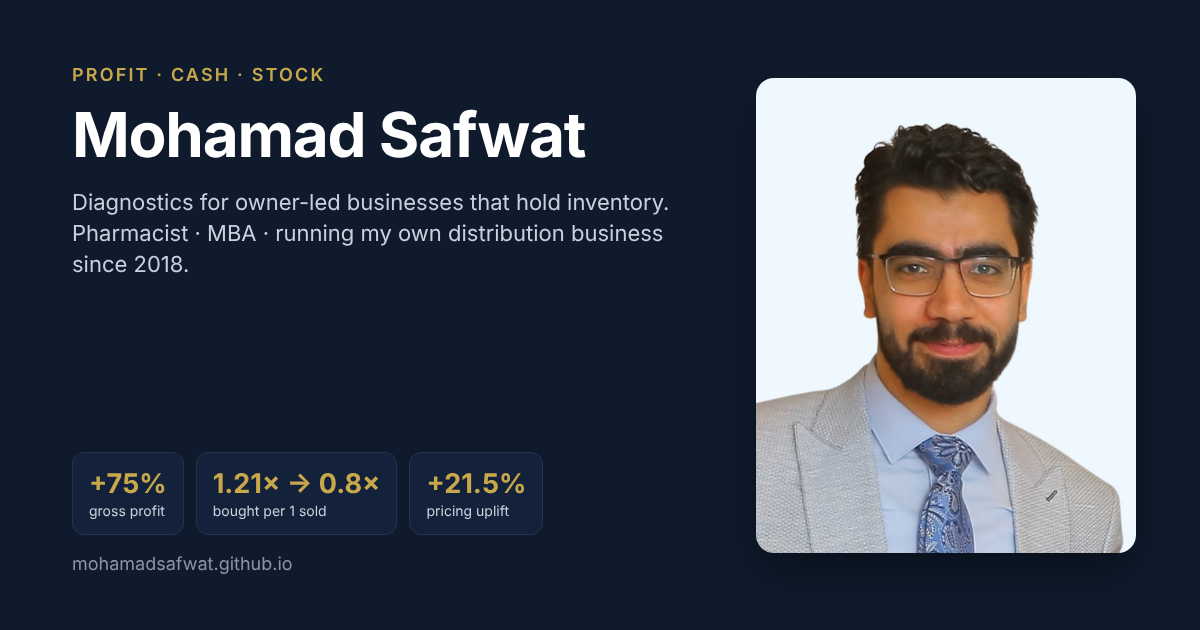
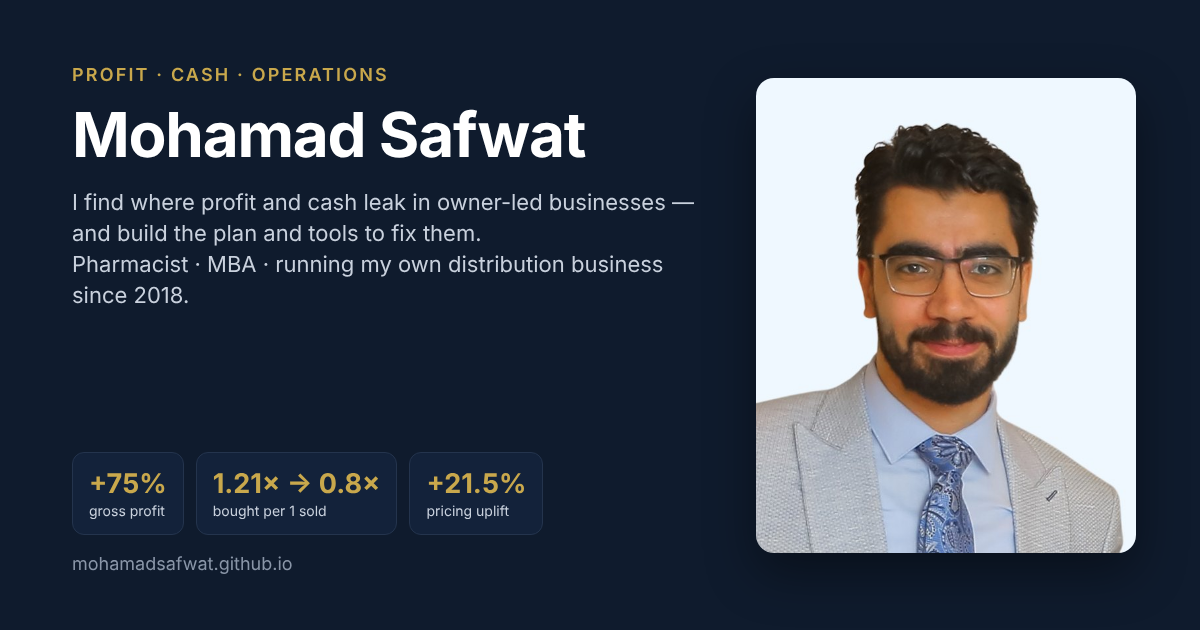
Broaden positioning beyond inventory businesses
Claude-Session: https://claude.ai/code/session_01QorqSg51Xh9JK2B4pxk6eo

Changed region(s): [[0.0617, 0.3016, 0.555, 0.4825], [0.2158, 0.0905, 0.3392, 0.1508]]

diff --git a/index.html b/index.html
@@ -3,11 +3,11 @@
 <head>
 <meta charset="utf-8">
 <meta name="viewport" content="width=device-width, initial-scale=1">
-<title>Mohamad Safwat — Profit, cash & stock diagnostics</title>
-<meta name="description" content="Profit, cash and stock diagnostics for owner-led businesses that hold inventory. Pharmacist, MBA, running my own distribution business since 2018.">
+<title>Mohamad Safwat — Profit & cash diagnostics</title>
+<meta name="description" content="I find where profit and cash leak in owner-led businesses — and build the plan and tools to fix them. Pharmacist, MBA, running my own distribution business since 2018.">
 <meta property="og:type" content="website">
-<meta property="og:title" content="Mohamad Safwat — Profit, cash & stock diagnostics">
-<meta property="og:description" content="Profit, cash and stock diagnostics for owner-led businesses that hold inventory. Pharmacist, MBA, running my own distribution business since 2018.">
+<meta property="og:title" content="Mohamad Safwat — Profit & cash diagnostics">
+<meta property="og:description" content="I find where profit and cash leak in owner-led businesses — and build the plan and tools to fix them. Pharmacist, MBA, running my own distribution business since 2018.">
 <meta property="og:url" content="https://mohamadsafwat.github.io/">
 <meta property="og:image" content="https://mohamadsafwat.github.io/og-card.png">
 <meta property="og:image:width" content="1200">
@@ -60,7 +60,7 @@ a{color:#0F1B2D}a:hover{color:#8A6417}
   <section id="top" style="background: #0F1B2D; color: #FFFFFF; overflow: hidden">
     <div style="max-width: 1200px; margin: 0 auto; padding: 104px 32px 88px; display: flex; flex-wrap: wrap; gap: 64px; align-items: flex-end">
       <div style="flex: 999 1 600px; min-width: 0; display: flex; flex-direction: column; gap: 26px">
-        <p class="rise d1" style="margin: 0; font-size: 14px; font-weight: 600; letter-spacing: 0.12em; text-transform: uppercase; color: #C9A84C">Profit · Cash · Stock — for owner-led businesses</p>
+        <p class="rise d1" style="margin: 0; font-size: 14px; font-weight: 600; letter-spacing: 0.12em; text-transform: uppercase; color: #C9A84C">Profit · Cash · Operations — for owner-led businesses</p>
         <h1 class="rise d2" style="margin: 0; font-family: 'Inter Tight', sans-serif; font-weight: 700; font-size: clamp(38px, 9vw, 66px); line-height: 1.03; letter-spacing: -0.028em">Most businesses don't lose money on one big mistake.</h1>
         <p class="rise d3" style="margin: 0; font-size: 20px; line-height: 1.55; color: #C9D1DD; max-width: 660px">They lose it in a hundred small gaps — the same item bought at three prices, stock bought ahead of sales, costs growing faster than revenue. I find them in the data you already have, and build the plan and the tools to close them.</p>
         <div class="rise d4" style="display: flex; flex-wrap: wrap; align-items: center; gap: 12px; font-size: 15px; color: #FFFFFF">
@@ -162,7 +162,7 @@ a{color:#0F1B2D}a:hover{color:#8A6417}
 
   <section id="who" style="max-width: 1200px; margin: 0 auto; padding: 80px 32px">
     <p style="margin: 0; font-size: 13px; font-weight: 600; letter-spacing: 0.12em; color: #8A6417">WHO I WORK WITH</p>
-    <h2 style="margin: 10px 0 0; font-family: 'Inter Tight', sans-serif; font-size: clamp(28px, 6vw, 42px); font-weight: 700; letter-spacing: -0.02em; max-width: 760px">Businesses that hold stock — and can't see where the cash went</h2>
+    <h2 style="margin: 10px 0 0; font-family: 'Inter Tight', sans-serif; font-size: clamp(28px, 6vw, 42px); font-weight: 700; letter-spacing: -0.02em; max-width: 760px">Owner-led businesses where growth isn't turning into cash</h2>
     <div style="display: grid; grid-template-columns: repeat(auto-fit, minmax(min(210px, 100%), 1fr)); gap: 16px; margin-top: 44px">
       <div class="lift" style="border: 1px solid #E6E8EC; border-radius: 10px; padding: 24px; display: flex; flex-direction: column; gap: 10px">
         <span style="width: 44px; height: 44px; border-radius: 10px; background: #F4EBD6; display: inline-flex; align-items: center; justify-content: center"><svg aria-hidden="true" viewBox="0 0 24 24" width="24" height="24" fill="none" stroke="#8A6417" stroke-width="1.8" stroke-linecap="round" stroke-linejoin="round"><path d="M3 9l1.5-5h15L21 9"></path><path d="M3 9h18v2a3 3 0 0 1-6 0 3 3 0 0 1-6 0 3 3 0 0 1-6 0z"></path><path d="M5 13v7h14v-7"></path><path d="M10 20v-4h4v4"></path></svg></span>
